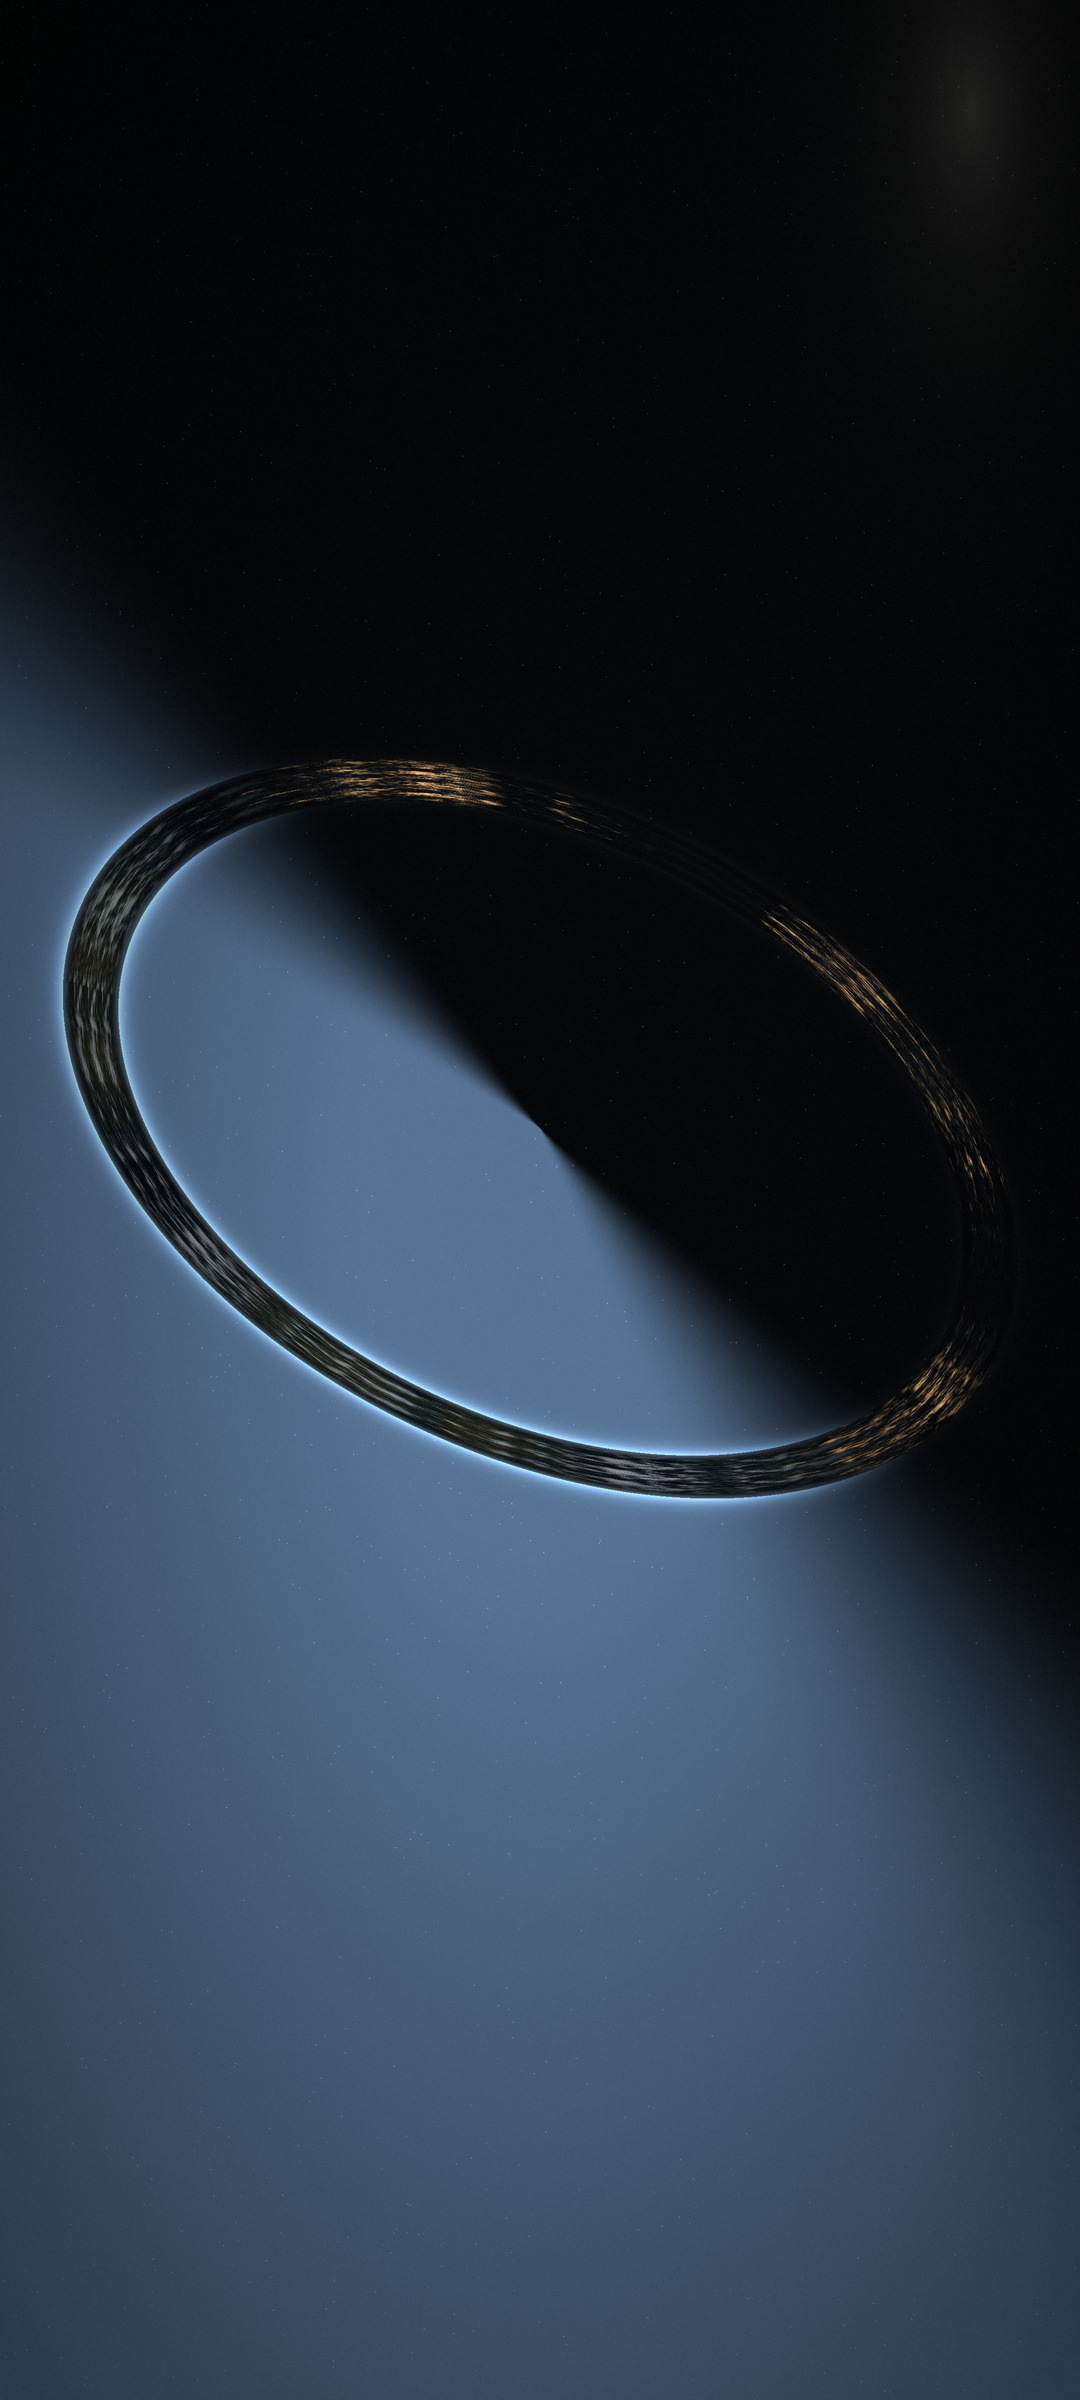
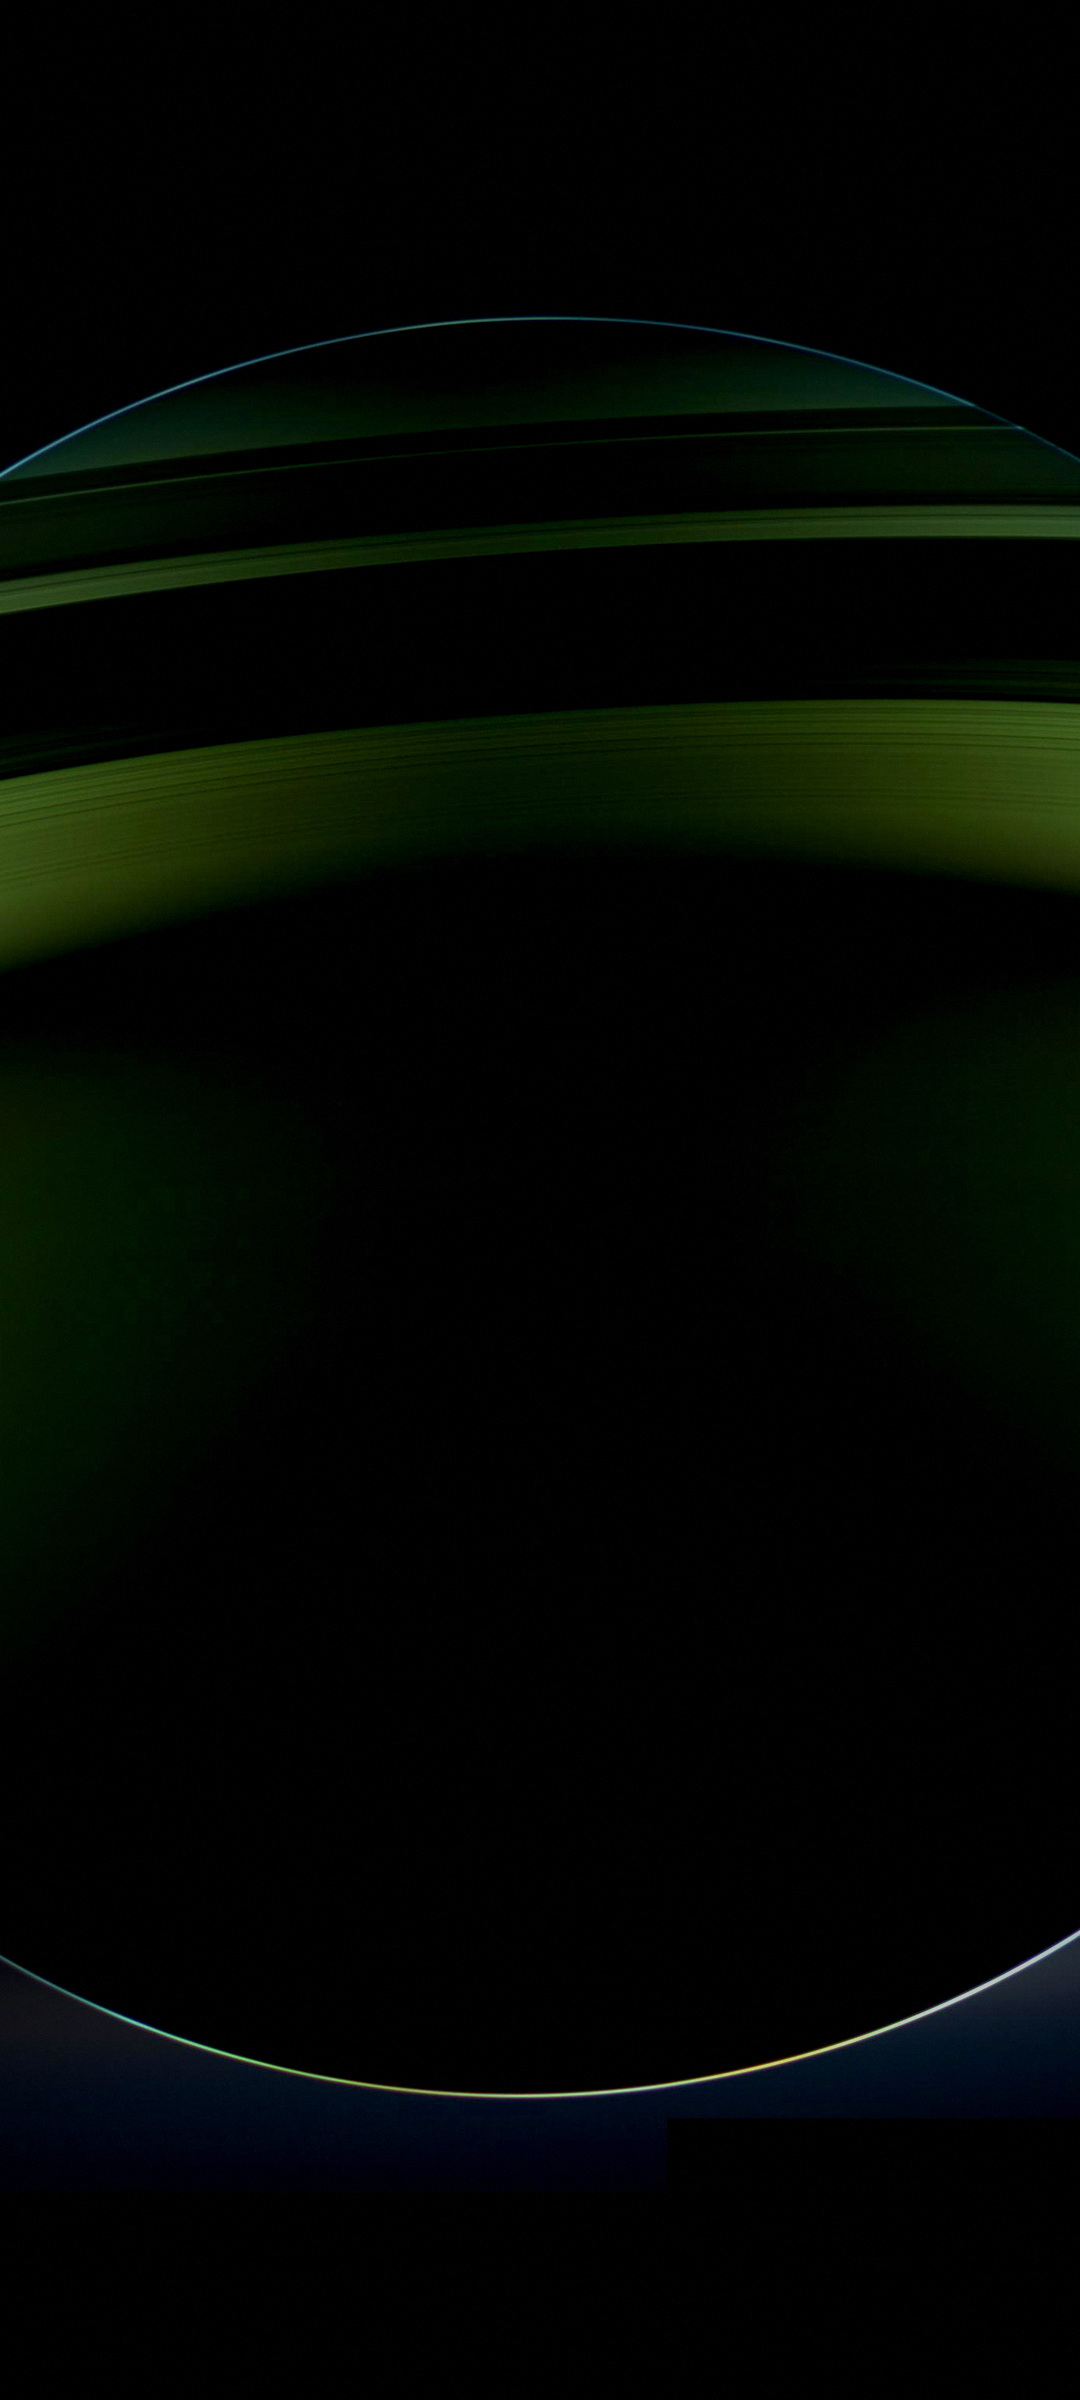
orbital: fonds Cassini (Saturne) a la place des rendus proceduraux

diff --git a/README.md b/README.md
@@ -1,8 +1,8 @@
 # orbital
 
-Thème omaLauncher / Omarchy — Culture — Iain M. Banks
+Thème omaLauncher / Omarchy — l'anneau (inspiré des Orbitals de la Culture)
 
-Un Orbital : l'anneau habitat de la Culture, vu depuis l'espace. Anneau incliné, terminateur jour/nuit, lumières des villes sur la face nocturne, liseré atmosphérique. Palette noir bleuté + or pâle.
+L'anneau géant vu de l'espace : Saturne en contre-jour, silhouette noire, liseré atmosphérique et anneaux traversants. Trois cadrages, du plus large au plus serré. Palette noir bleuté + or pâle.
 
 ## Install
 
@@ -17,4 +17,4 @@ Settings → Theme → coller l'URL du dépôt :
 
 ## Crédits images
 
-Fonds générés procéduralement (rendu interne, terrain périodique + étoiles). Libre d'usage.
+Photos : NASA/JPL-Caltech/Space Science Institute — mission Cassini (« The Day the Earth Smiled », « A Splendor Seldom Seen »), domaine public. Recadrages et étalonnage internes.
